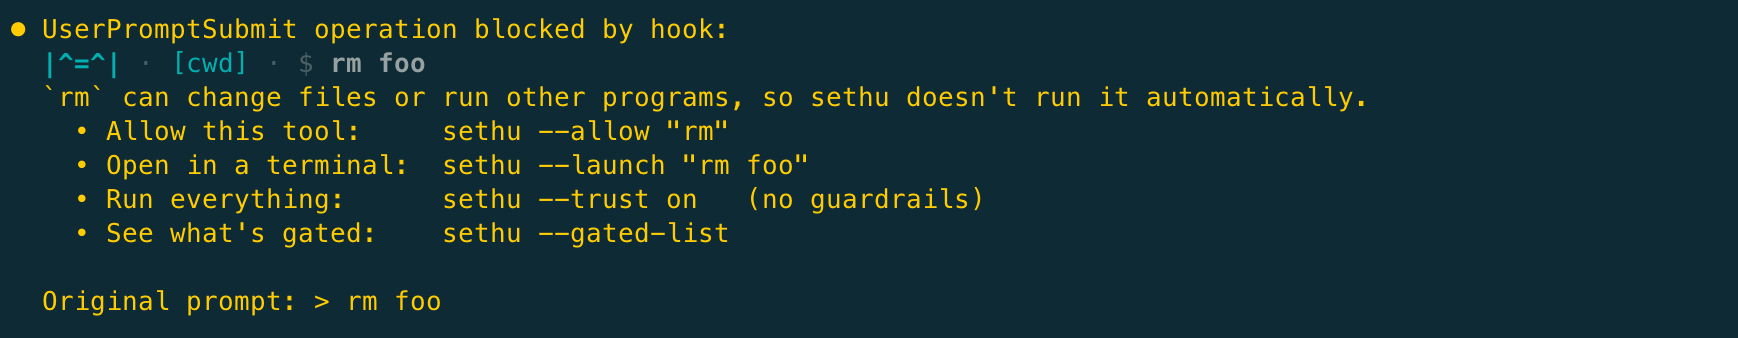
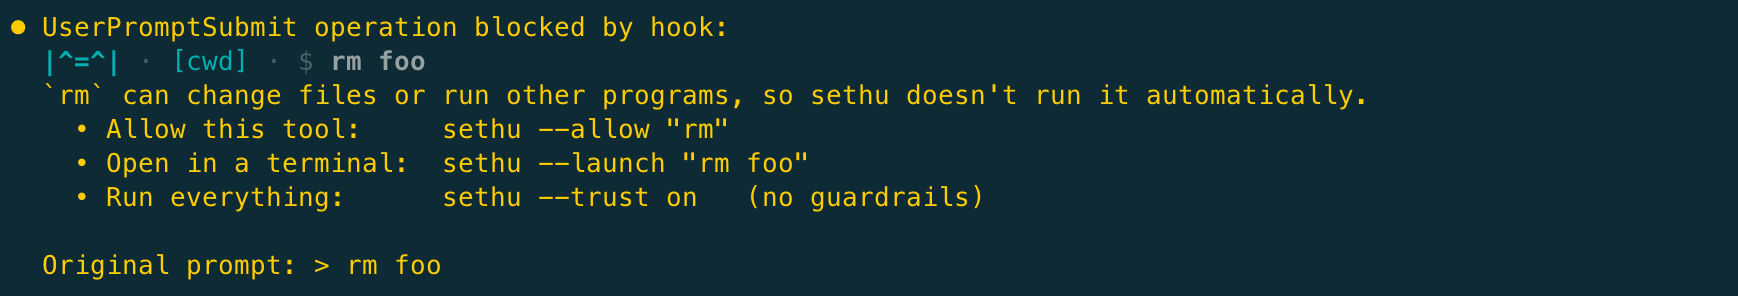
fix: message consistency + humane-tone guideline + PR test-plan template (#23)
* fix: message consistency (em-dash sweep, trust-message bug, wording)

- Remove em-dashes from ~16 user-facing strings in _engine.py (house rule:
  comma/colon/period/parens, not hyphens).
- Fix the `--trust on` message: "Turn it back on with --trust off" -> "back off".
- FIRST_RUN_HINT: output "goes to the model" -> "goes to Claude" (matches every other
  message).
- README Troubleshooting: replace a stale refusal quote ("isn't in the gated set") with
  the wording sethu actually prints.

Two `>>` additionalContext strings (model-facing, not user-read) intentionally keep their
em-dashes, per the user-facing scope of the rule.

* docs: humane-tone guideline + a Test plan table in the PR template

- design-guidelines: add "Humane, respectful tone; never curt" (prompted by a
  launch-failure message that read terse).
- PR template: add a "Test plan" table so contributors enumerate the scenarios a change
  can produce and mark whether each is covered (unit / manual / n/a), beyond "tests pass".

* docs: test-plan template must list non-unit-testable behaviors as manual rows

Emphasize that the plan enumerates EVERY scenario, not just the ones with a unit test:
behaviors that can't be unit-tested (real terminal, macOS, screenshots) belong as manual
rows.

* docs: re-shoot the refusal screenshot for the one-shot menu (no gated-list)

#19 dropped the "See what's gated" bullet from the refusal menu, so the old screenshot was
[…]

diff --git a/hooks/_engine.py b/hooks/_engine.py
@@ -304,7 +304,7 @@ def _truncate(out, sid, cap, on, plain=False):
         path = None
     hidden = total - cap
     shown = "\n".join(head[:cap])
-    where = (f"full output — view it with `sethu --launch \"less {path}\"`"
+    where = (f"full output: view it with `sethu --launch \"less {path}\"`"
              if path else "full output unavailable (couldn't write temp file)")
     lead, sep = ("...", "-") if plain else ("…", "·")
     note = f"{lead} {hidden} more line{'s' if hidden != 1 else ''} truncated {sep} {where}"
@@ -325,8 +325,8 @@ FIRST_RUN_HINT = (
     "• `> grep -n TODO src/`  → runs it, shows output to YOU only. Free (Claude "
     "never sees it).\n"
     "• `>> grep -n TODO src/` → runs it AND sends the output to Claude (costs tokens).\n"
-    "Works when Claude is idle (a `>` typed while Claude is thinking goes to the "
-    "model). Safe tools (ls/cat/grep/jq…) work now; for git/find/npm/… run "
+    "Works when Claude is idle (a `>` typed while Claude is thinking goes to "
+    "Claude). Safe tools (ls/cat/grep/jq…) work now; for git/find/npm/… run "
     "`sethu --allow <tool>` once. Type `sethu` for the menu. Screen reader? Please use "
     "`sethu --plain on` for spoken-friendly output."
 )
@@ -816,7 +816,7 @@ def run_capture(cmd, cwd=None, timeout=None):
         # Lead with the note so it survives the maxLines display truncation (an 8 MB
         # runaway is always truncated, which would bury a trailing note).
         mb = MAX_CAPTURE_BYTES // (1024 * 1024)
-        note = f"[output capped at {mb} MB — the command produced more and was stopped]"
+        note = f"[output capped at {mb} MB: the command produced more and was stopped]"
         return ((note + "\n" + out).strip(), None)
     return (out.strip() or "(no output)", code)
 
@@ -1061,7 +1061,7 @@ def shell_run(sid, cmd, cwd_hint=None, use_rc=False, timeout=None):
             return (partial + _timeout_msg(timeout or cmd_timeout(), cmd), None)
         if first.strip() == "CAPPED":
             mb = MAX_CAPTURE_BYTES // (1024 * 1024)
-            note = f"[output capped at {mb} MB — the command produced more and was stopped]"
+            note = f"[output capped at {mb} MB: the command produced more and was stopped]"
             body = rest.strip()
             return ((note + "\n" + body if body else note), None)
         if first.strip().lstrip("-").isdigit():
@@ -1081,7 +1081,7 @@ def shell_run(sid, cmd, cwd_hint=None, use_rc=False, timeout=None):
 
 # ── the core: process one submitted prompt ────────────────────────────────────
 # No leading icon/`sethu:` — the hook's `_lead` adds it (colored, or `sethu:` in plain).
-HELP = ("type `> <command>` to run it (free — gated tools like ls/cat/grep run now), or "
+HELP = ("type `> <command>` to run it (free: gated tools like ls/cat/grep run now), or "
         "`>> <command>` to also send its output to Claude.\n"
         "Manage it: `sethu --allow \"<tool>\"`, `sethu --mode cwd|shell|stateless`, "
         "`sethu --runner`.")
@@ -1104,7 +1104,7 @@ def _why_refused(cmd, cfg):
                 f"automatically.")
     if _DANGER.search(cmd):
         return ("sethu won't run commands joined by `;`, `&&`, `&`, redirects (`>`), or "
-                "`$(…)` — run the parts as separate `>` commands.")
+                "`$(…)`. Run the parts as separate `>` commands.")
     if prog not in GATED:
         return (f"`{prog}` can change files or run other programs, so sethu doesn't run "
                 f"it automatically.")
@@ -1216,7 +1216,7 @@ def process(prompt, data):
         # One plain reason line (specific why, else a generic fallback), then the
         # actions once. A chain can't be fixed by allowing a tool (the guard refuses
         # chaining regardless), so drop the "Allow this tool" bullet for those.
-        reason = _why_refused(cmd, cfg) or ("sethu doesn't run this automatically — "
+        reason = _why_refused(cmd, cfg) or ("sethu doesn't run this automatically: "
             "part of it can change files or run other programs.")
         b = "-" if plain else "•"
         bullets = []
@@ -1360,7 +1360,7 @@ class _Parser(argparse.ArgumentParser):
         hint = ""
         if message.startswith("unrecognized arguments"):
             # The usual cause: extra words after a one-value flag (`--allow ls echo`).
-            hint = _c("\n  a flag takes ONE value — quote a multi-word command "
+            hint = _c("\n  a flag takes ONE value: quote a multi-word command "
                       "(`sethu --allow \"git status\"`), or allow tools one at a time.",
                       "dim", on)
         sys.stderr.write(
@@ -1411,7 +1411,7 @@ def _apply_cli_mutations(a, cfg):
             print("nothing to allow (the command was empty)."); noop = True
         elif _is_chain_unsafe(val):
             print(f"won't allowlist a chain: {val!r}. sethu allows tools, not chained "
-                  f"commands — allow the tools you need individually (one `sethu --allow "
+                  f"commands: allow the tools you need individually (one `sethu --allow "
                   f"<tool>` each) and run the parts as separate `>` commands, or "
                   f"`sethu --trust on` to run everything."); noop = True
         elif val in cfg["allow"]:
@@ -1422,7 +1422,7 @@ def _apply_cli_mutations(a, cfg):
             tool = os.path.basename(val.split()[0]) if val.split() else ""
             if tool in _LAUNCHERS:
                 print(f"  ⚠ `{tool}` can run other programs, so allowing it lets "
-                      f"`{tool} …` run anything — closer to trust than a single tool. "
+                      f"`{tool} …` run anything, closer to trust than a single tool. "
                       f"Your call; `sethu --unallow {tool}` to undo.")
     if a.launch is not None:
         val = " ".join(a.launch.split())
@@ -1469,7 +1469,7 @@ def _apply_cli_mutations(a, cfg):
         changed = True
     if a.plain:
         cfg["plain"] = (a.plain == "on")
-        print(f"✔ plain: {a.plain} (`sethu:` prefix + words, no glyphs — for screen "
+        print(f"✔ plain: {a.plain} (`sethu:` prefix + words, no glyphs, for screen "
               f"readers / plain terminals)")
         changed = True
     if a.maxlines is not None:
@@ -1481,23 +1481,23 @@ def _apply_cli_mutations(a, cfg):
         cfg["timeout"] = max(1, a.timeout)
         killed = kill_daemons()  # so shell-mode daemons pick up the new timeout
         note = f" (restarted {killed} shell daemon(s))" if killed else ""
-        warn = "  ⚠ over the ~30s hook budget — Claude Code may cut it off first." \
+        warn = "  ⚠ over the ~30s hook budget: Claude Code may cut it off first." \
             if cfg["timeout"] > 28 else ""
         print(f"✔ timeout: {cfg['timeout']}s{note}{warn}")
         changed = True
     if a.trust:
         cfg["trust"] = (a.trust == "on")
         if cfg["trust"]:
-            print("⚠ trust ON — the gate is off; ANY `>` command will run, with no "
-                  "permission prompt. Turn it back on with `sethu --trust off`.")
+            print("⚠ trust ON: the gate is off; ANY `>` command will run, with no "
+                  "permission prompt. Turn it back off with `sethu --trust off`.")
         else:
-            print("✔ trust: off — gated again (only safe tools + your --allow'd run).")
+            print("✔ trust: off, gated again (only safe tools + your --allow'd run).")
         changed = True
     if a.rc:
         cfg["rc"] = (a.rc == "on")
         killed = kill_daemons()  # restart so the new shell takes effect
         note = f" (restarted {killed} shell daemon(s))" if killed else " (shell restarted)"
-        extra = (" — your shell's aliases/functions/env now load in shell mode"
+        extra = (" (your shell's aliases/functions/env now load in shell mode)"
                  if cfg["rc"] else "")
         print(f"✔ rc: {a.rc}{note}{extra}")
         changed = True
@@ -1556,7 +1556,7 @@ def main(argv=None):
         print(gated_list_text(load_config()))
         return
     if a.restart:
-        print(f"✔ restarted {kill_daemons()} shell daemon(s) — fresh state next command")
+        print(f"✔ restarted {kill_daemons()} shell daemon(s): fresh state next command")
         return
     # --rc is a config mutation (bool + daemon restart), so it goes through the normal
     # mutation block below — NOT an early return — otherwise `--rc on --mode shell` would
@@ -1582,7 +1582,7 @@ def main(argv=None):
 
 def _print_config(cfg):
     """Pretty-print the effective config (the `sethu` / `--runner` view)."""
-    trust_disp = "on ⚠ gate off — everything runs" if cfg.get("trust") else "off (gated)"
+    trust_disp = "on ⚠ gate off, everything runs" if cfg.get("trust") else "off (gated)"
     ml = max_lines(cfg)
     print(f"config ({config_path()}):")   # the `sethu:`/icon lead is added by `_lead`
     print(f"  prefix:   {cfg['prefix']!r}   (default '>'; > run+block free, >> send to Claude)")
@@ -1590,7 +1590,7 @@ def _print_config(cfg):
     print(f"  trust:    {trust_disp}   (default off; off = gated safe tools + your --allow'd)")
     print(f"  rc:       {'on' if cfg.get('rc') else 'off'}   (default off; shell mode sources your shell rc)")
     print(f"  color:    {'on' if cfg.get('color', True) else 'off'}   (default on; colored result header)")
-    print(f"  plain:    {'on' if cfg.get('plain') else 'off'}   (default off; `sethu:` prefix + words, no glyphs — for screen readers)")
+    print(f"  plain:    {'on' if cfg.get('plain') else 'off'}   (default off; `sethu:` prefix + words, no glyphs, for screen readers)")
     print(f"  maxLines: {'unlimited' if ml == 0 else ml}   (default 40; truncate long output, full saved to a file)")
     print(f"  timeout:  {cmd_timeout(cfg)}s   (default 20s; max seconds a command may run)")
     print(f"  allow:    {cfg['allow']}   (gated tools + these run; `--gated-list` to see all)")

diff --git a/.github/pull_request_template.md b/.github/pull_request_template.md
@@ -20,11 +20,29 @@ Full guide: docs/versioning.md
 <!-- Automated tests, plus any live-testing per docs/testing.md — the suite does NOT
 cover --launch, shell mode, or macOS, so note manual verification for those. -->
 
+### Test plan
+
+<!-- Enumerate EVERY scenario this change can produce, not only the ones you wrote a unit
+test for. Behaviors that CANNOT be unit-tested (a real terminal, macOS, tmux, a live Claude
+Code session, a screenshot) still belong here as a `manual` row: that is the point. Mark
+each:
+  - Covered?  ✅ a test covers it  /  🖐 verified by hand  /  ❌ not covered (say so honestly)
+  - How:  `unit: test_name`,  or  `manual, per docs/testing.md`,  or why it isn't covered.
+This is the honest map of "what could happen and how we actually checked it", beyond "the
+suite passes". -->
+
+| Scenario | Covered? | How |
+| --- | --- | --- |
+| <happy path> | ✅ | unit: `test_...` |
+| <edge / failure case> | ✅ | unit: `test_...` |
+| <behavior with no unit test: real terminal / macOS / screenshot> | 🖐 | manual, per docs/testing.md |
+
 
 ## Checklist
 
 - [ ] PR title is a Conventional Commit (`fix:` / `feat:` / `docs:` / `chore:` / …)
 - [ ] Tests added or updated; `python3 -m unittest discover -s tests` passes
+- [ ] Test plan above is filled in (scenarios enumerated; anything not covered is called out)
 - [ ] Security: does this change what auto-runs, or widen the gate / allowlist? If so, it's been audited.
 - [ ] `docs/use-cases.md` still accurate if gating / permissions changed
 - [ ] `CLAUDE.md` code-map updated if a function, section, or file moved

diff --git a/README.md b/README.md
@@ -162,7 +162,7 @@ Config lives in `~/.claude/sethu.json`. The full `sethu` menu has a few more kno
 
 When a command isn't gated, the refusal tells you *why* and hands you the ways forward:
 
-![sethu refusing "> rm foo" because rm can change files, listing options: allow the tool, open in a terminal, trust everything, or see what's gated](assets/sethu_refusal.png)
+![sethu refusing "> rm foo" because rm can change files, listing options: allow the tool, open in a terminal, or trust everything](assets/sethu_refusal.png)
 
 - **Gated by default.** Tools that can't write files or run other programs, whatever
   the flags (`ls`, `cat`, `grep`, `jq`, …), run automatically. Anything that *can*
@@ -219,7 +219,7 @@ to do instead:
   while Claude was still generating. sethu only fires on a prompt that *starts* a turn,
   so a `>` typed mid-response is read by the model (and costs tokens), not run by sethu.
   Send `> cmd` when Claude is idle.
-- **"`X` isn't in the gated set."**: sethu is gated by default, and the message says why
+- **"`X` can change files or run other programs, so sethu doesn't run it automatically."**: sethu is gated by default, and the message says why
   (e.g. `git`/`npm` can write or run other programs). Permit it with `sethu --allow X`
   (the whole tool). If it's interactive (`vim`, a bare REPL), use `sethu --launch "X"`
   instead, since allowlisting can't make those run. `sethu --trust on` drops all guardrails,

diff --git a/docs/design-guidelines.md b/docs/design-guidelines.md
@@ -58,6 +58,10 @@ with one, either don't make it or update this doc deliberately.
   step.
 - **Truthful feedback.** Only report success when something actually changed
   (`✔ added` / `already allowed` / `not in list`, not always `✔`).
+- **Humane, respectful tone; never curt.** Messages read like a considerate person, not
+  a terse machine. When sethu can't do something, acknowledge it and offer the way forward
+  politely ("Please run it in your own terminal", not "Run it yourself" or "Run it
+  instead"). If warmth and brevity conflict, keep the warmth.
 - **Plain, natural language.** No em-dashes; commas/colons/parentheses instead.
   Concrete over jargon ("gated won't run it automatically", not "isn't
   auto-allowed"). Concise; say each thing once. **Scope:** this governs everything a
